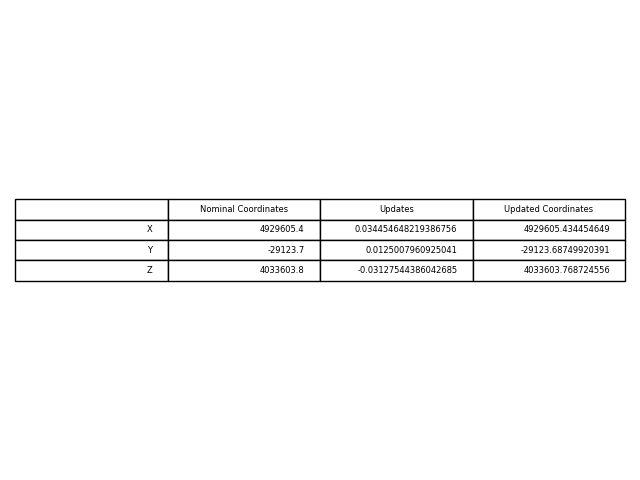
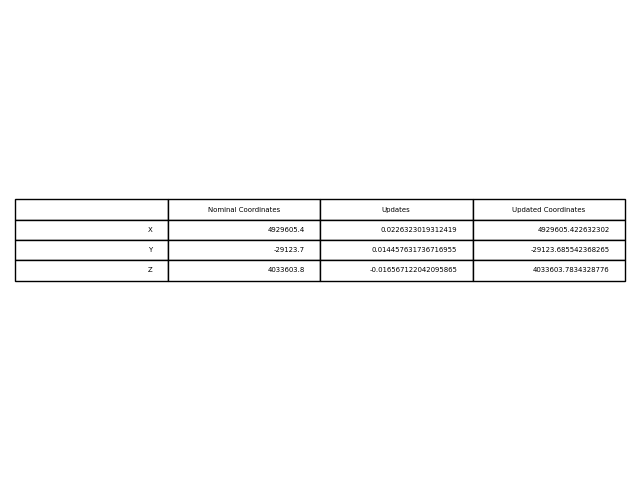
fix: Noise term removed from b-vector computation

Changed region(s): [[0.7812, 0.4062, 0.9688, 0.5938], [0.5625, 0.4062, 0.7188, 0.5938], [0.3125, 0.4062, 0.4688, 0.5938]]

diff --git a/Computations.py b/Computations.py
@@ -563,6 +563,8 @@ if __name__ == "__main__":
 
     updated_pillar_3A = [(pillar_3A_rover[0] + X_hat[0]), (pillar_3A_rover[1] + X_hat[1]), (pillar_3A_rover[2] + X_hat[2])]
 
+
+
     """
     Table to display final results
     """
@@ -585,6 +587,7 @@ if __name__ == "__main__":
     """
     As a performance test, the computed distances between pillar 1A and pillar 3A are compared.
     """
+    print(distance(after_ambiguity_resolution, pillar_1A_base))
 
     table = np.array([["Nominal: ", distance(pillar_1A_base, pillar_3A_rover)],
                       ["Updated: ", distance(pillar_1A_base, updated_pillar_3A)]])

diff --git a/Matrix_Computation_Classes.py b/Matrix_Computation_Classes.py
@@ -101,7 +101,7 @@ class DD:
 
     def calc_b_vector(self) -> float:
         # observed - The vector of measured quantities
-        o = self.dsl - self.N + self.e
+        o = self.dsl - self.N
 
         # Computed
         c = (1 / self.wl) * (self.brrs - self.rrrs - self.brcs + self.rrcs)
